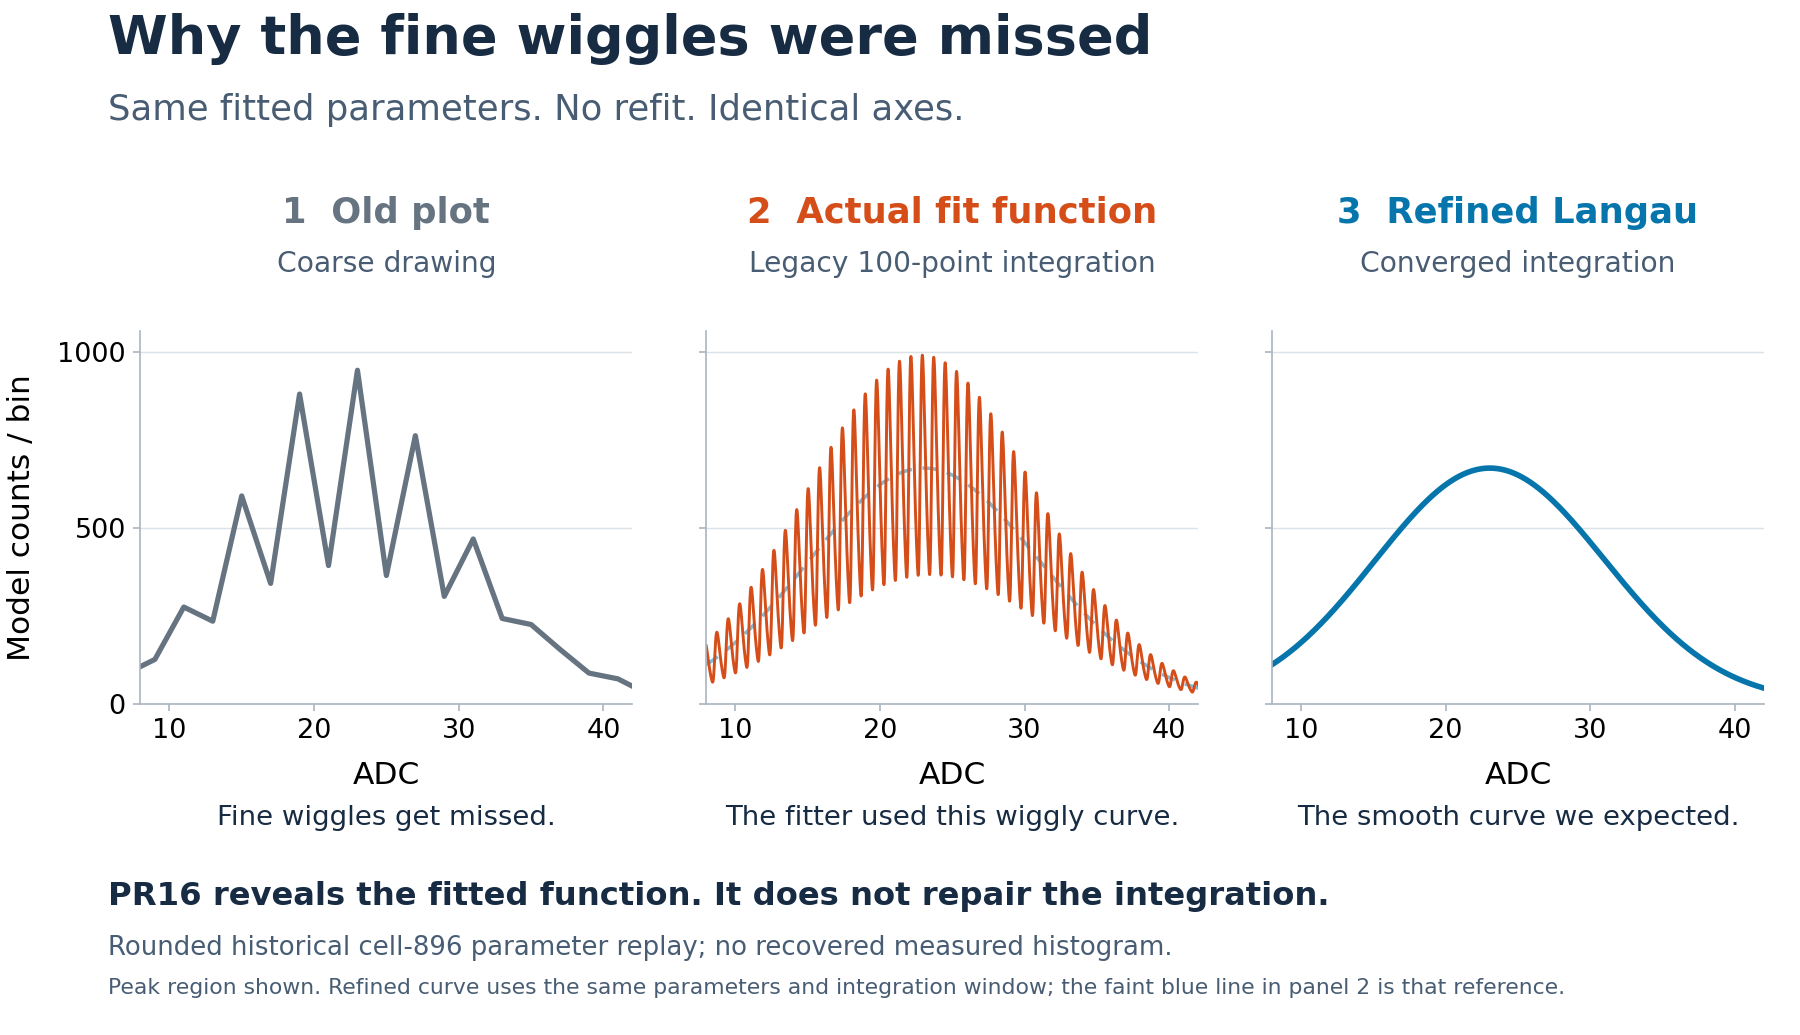
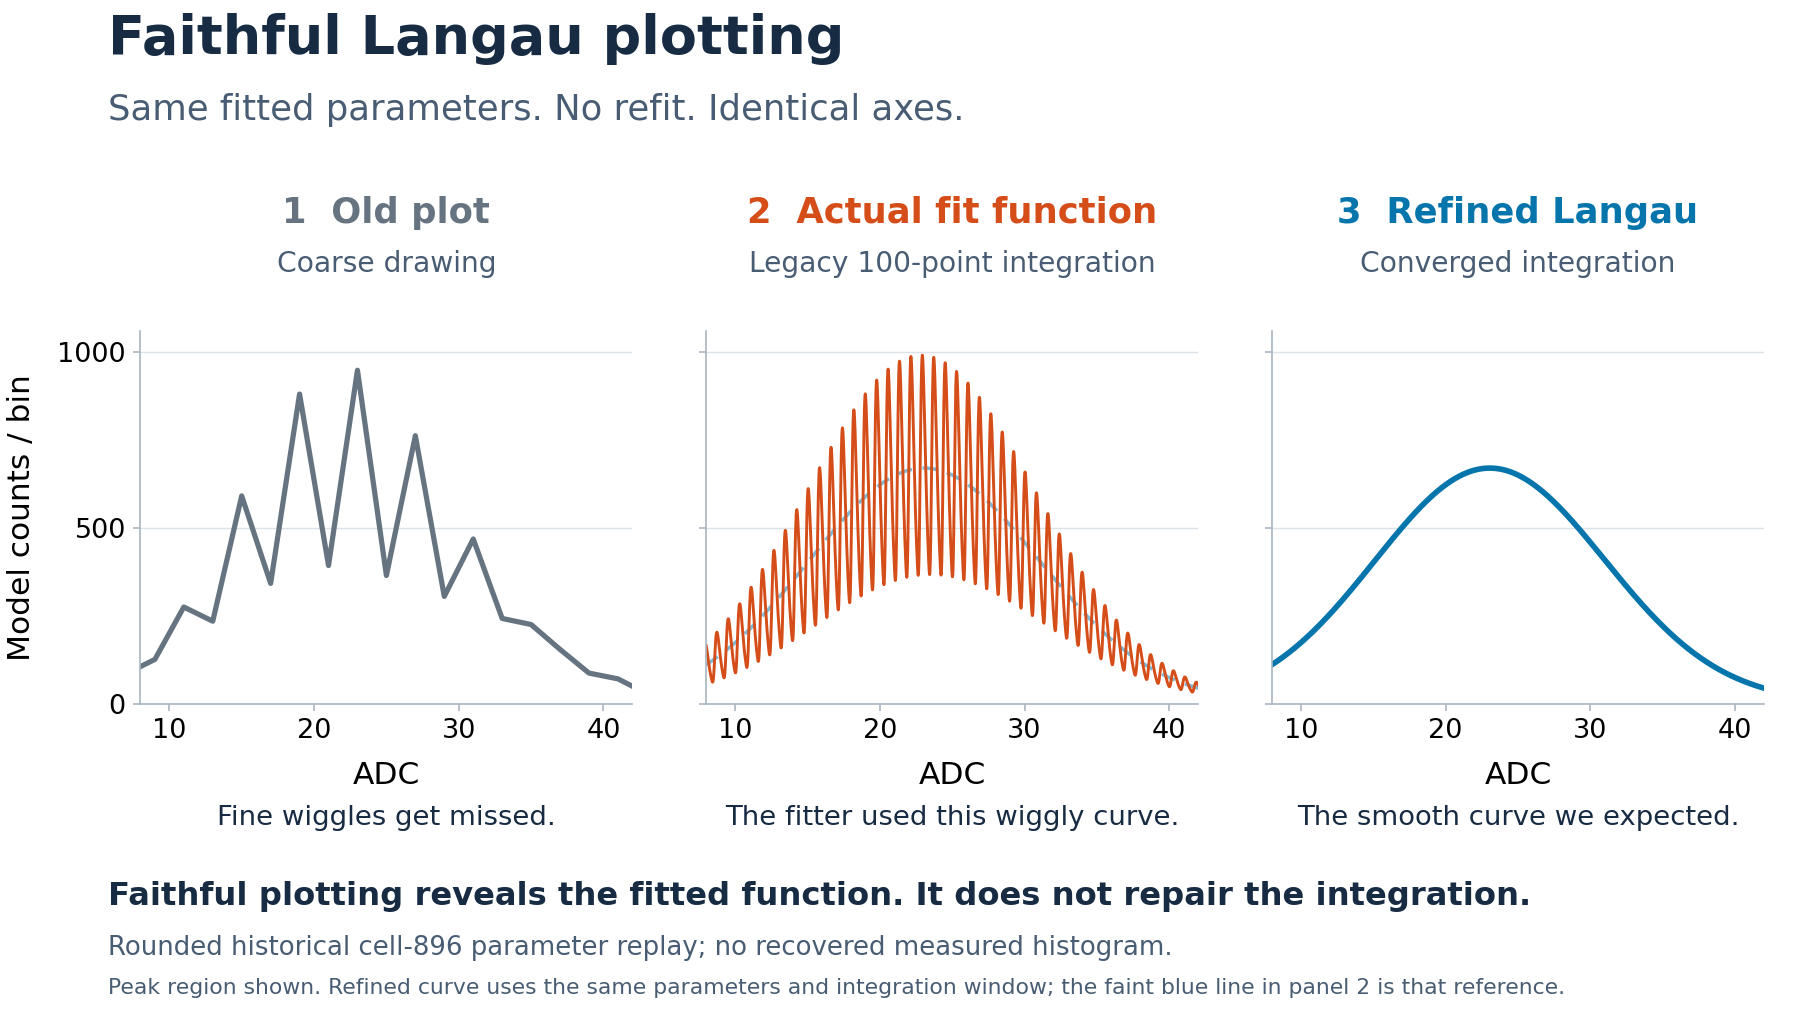
Make the faithful Langau illustration standalone
Remove fork-specific PR numbering from the title, caption and illustration notes. Numerical curves and parameters are unchanged.

Changed region(s): [[0.0622, 0.8348, 0.84, 0.8966], [0.0622, 0.0, 0.6533, 0.0618]]

diff --git a/pr16-illustrations/README.md b/pr16-illustrations/README.md
@@ -1,13 +1,13 @@
-# Faithful plotting: description-only illustrations
+# Faithful Langau plotting: illustration methods
 
-These images support [PR16](https://github.com/paulnord/epic-lfhcal-tbana/pull/16). They are stored on a separate evidence branch and are not in its production diff.
+These fixed-parameter comparisons illustrate faithful drawing and numerical integration. They are stored on a separate evidence branch, not in the production code.
 
-The simplified three-panel [main graphic](faithful-langau-explained.png) uses the same historical case and validated numerical arrays as the problem-case figure below. It shows the peak region, 8–42 ADC, on identical axes: the old coarse drawing, the function actually fitted, and the independently converged Langau at the same parameters. The refined curve is a reference, not a replacement evaluator introduced by PR16.
+The simplified three-panel [main graphic](faithful-langau-explained.png) uses the same historical case and validated numerical arrays as the problem-case figure below. It shows the peak region, 8–42 ADC, on identical axes: the old coarse drawing, the function actually fitted, and the independently converged Langau at the same parameters. The refined curve is a reference, not a replacement evaluator introduced by the plotting change.
 
 Both examples freeze the previously published parameter vectors from cases A and C of [this provenance record](https://github.com/paulnord/epic-lfhcal-tbana/blob/0421e435a2fcba5942eea5abdab3e0c256259346/NewStructure/tests/fit-curve-evidence/fixed-fit-four-case-audit.json). No fits are performed. The problem case is a rounded historical parameter replay with no recovered measured histogram. The control is a saved synthetic fit, not measured data.
 
 - Gray: old ROOT drawing, 1000 samples over 0–2000, using an in-memory copy of the same live callback.
-- Orange: the current PR16 renderer samples the actual fitted legacy callback within its original 3.5–67.71 fit window.
+- Orange: the faithful renderer samples the actual fitted legacy callback within its original 3.5–67.71 fit window.
 - Blue: independently convergence-checked reference integral at the same parameters, retaining ROOT's Landau approximation, MP correction, normalization and ±5 Gaussian-sigma window.
 
 The reference uses segmented 64-point Gauss-Legendre integration. Order 32 is checked at all 24001 grid points. Order 128 and independent segmented QUADPACK are checked at 153 positions per case; QUADPACK tolerance is varied and its reported error is retained. All current-renderer vertices are exactly equal to live TF1::Eval; parameters, fit range and Npx are unchanged. See [provenance.json](provenance.json) for full-precision inputs, checks and metrics.
